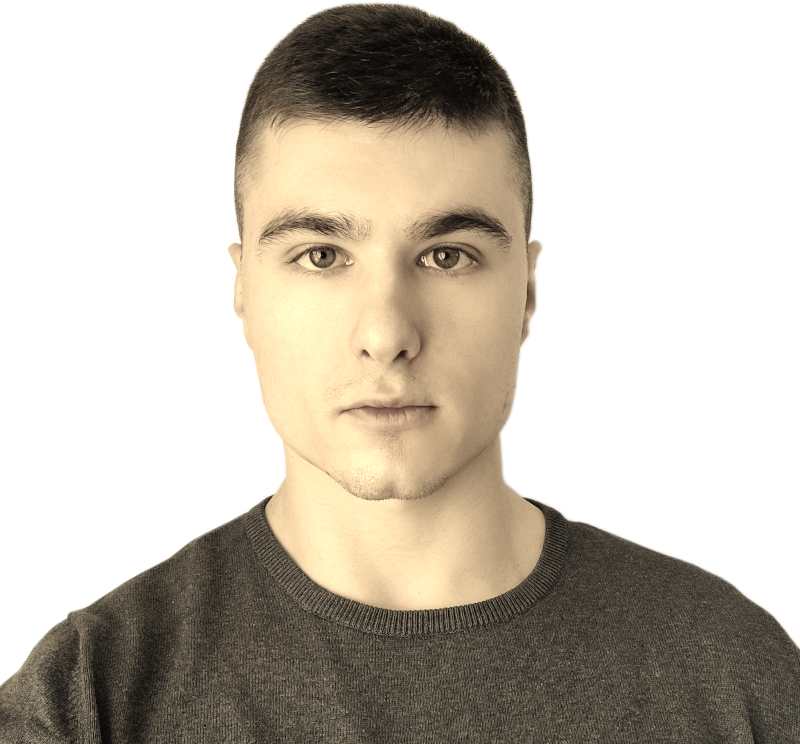
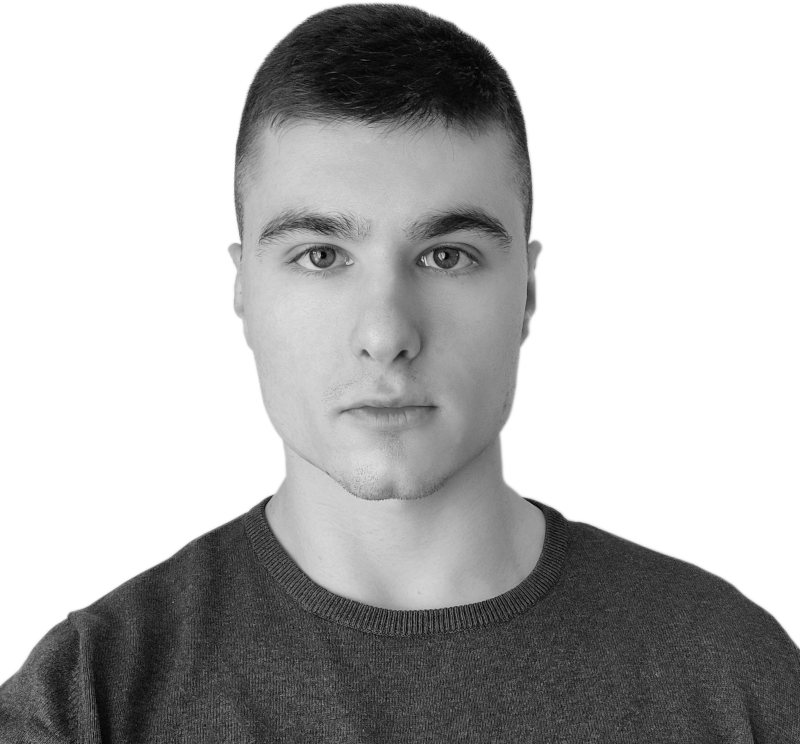
update the dark style; add upwork link; add the animation; update the profile photo

diff --git a/index.html b/index.html
@@ -13,23 +13,41 @@
 		<link href="https://fonts.googleapis.com/css2?family=AR+One+Sans:wght@400;500;600&family=Martian+Mono&display=swap" rel="stylesheet">
 
 		<style>
+			@keyframes main {
+				from {
+					opacity: 0;
+				}
+				to {
+					opacity: 1;
+				}
+			}
 			html {
+				--em-color: rgb(43, 43, 43);
+				--reg-color: rgb(43, 43, 43);
+
 				background-color:rgb(241, 239, 222);
 				
 				font-size: min(1em, 5vw);
 				font-family: 'AR One Sans', sans-serif;
 			}
 			body {
+				animation-name: main;
+				animation-duration: 2s;
+				animation-timing-function: ease-out;
+
 				width: min(90vw, 50vh);
 				margin-left: auto;
 				margin-right: auto;
 				
 				text-align: center;
-				color:rgb(43, 43, 43);
+				color: var(--reg-color);
 			}
 			h1 {
 				font-size: 1.7rem;
 				font-weight: 600;
+			}
+			h2 {
+				font-size: 1.2em;
 			}
 			section {
 				margin-top: 4.5vh;
@@ -62,10 +80,20 @@
 			}
 			@media (prefers-color-scheme: dark) {
 				html {
+					--em-color: rgb(255, 255, 255);
+					--reg-color: rgb(167, 129, 97);
+
 					background-color:rgb(0, 0, 0);
+					text-shadow: 0 0 0.08em rgb(255, 238, 0);
 				}
 				body {
-					color:rgb(196, 166, 103);
+					color: var(--reg-color);
+				}
+				h1 {
+					color: var(--em-color);
+				}
+				h2 {
+					color: var(--em-color);
 				}
 				.light {
 					display: none;
@@ -74,7 +102,7 @@
 					display: inline;
 				}
 				em {
-					color:rgb(216, 166, 72);
+					color: var(--em-color);
 				}
 			}
 		</style>
@@ -85,14 +113,14 @@
 
 		<section>
 			<img class="profile-picture" src="images/profile.png" alt="Profile picture">
-			<p><em>A software development engineer.</em></p>
+			<h2><em>A software development engineer.</em></h2>
 		</section>
 		<section>
 			<p>I design and develop high-performance scalable software systems with simple and maintainable code.</p>
 			<p>Specialized in backend technologies I use languages such as <em>Go</em>, <em>Python</em>, <em>Java</em>, and <em>C++</em>.</p>
 			<p>Able to create clean and responsive websites using <em>HTML</em>, <em>CSS</em>, and <em>JavaScript</em>.</p>
 		</section>
-		<section>
+		<section id="contact">
 			<p>Contact me by e-mail <code>ivankatalenic100</code> at <code>gmail.com</code>.</p>
 			<div class="links">
 				<a href="https://github.com/ivankatalenic" target="_blank" class="link">
@@ -104,7 +132,12 @@
 					<img class="link dark" src="images/ln-white.png">
 				</a>
 				<a href="https://www.fiverr.com/ivankatalenic?up_rollout=true" target="_blank", class="link">
-					<img class="link" src="images/fiverr.svg">
+					<img class="link light" src="images/fiverr.svg">
+					<img class="link dark" src="images/fiverr-white.svg">
+				</a>
+				<a href="https://www.upwork.com/freelancers/~012708c756163bd7e1" target="_blank" class="link">
+					<img class="link light" src="images/upwork-green.svg">
+					<img class="link dark" src="images/upwork-white.svg">
 				</a>
 			</div>
 		</section>
